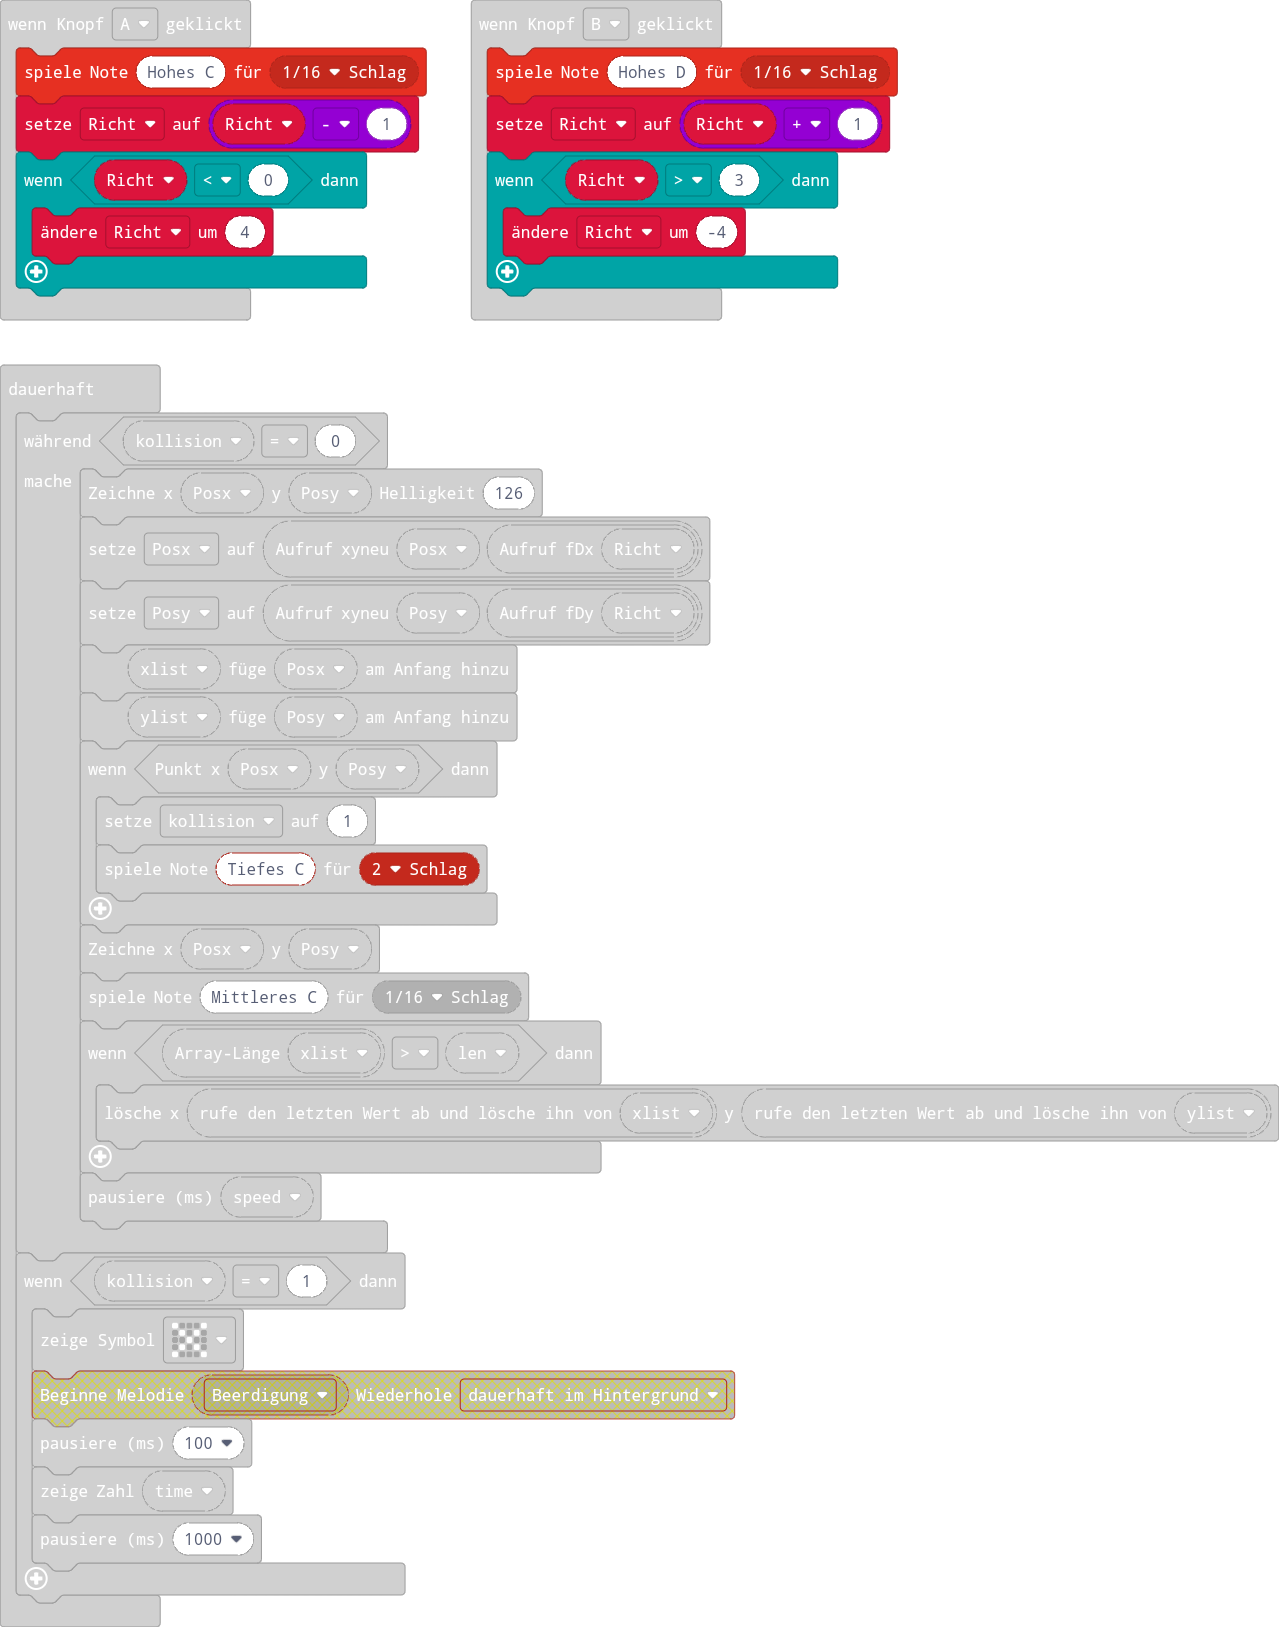
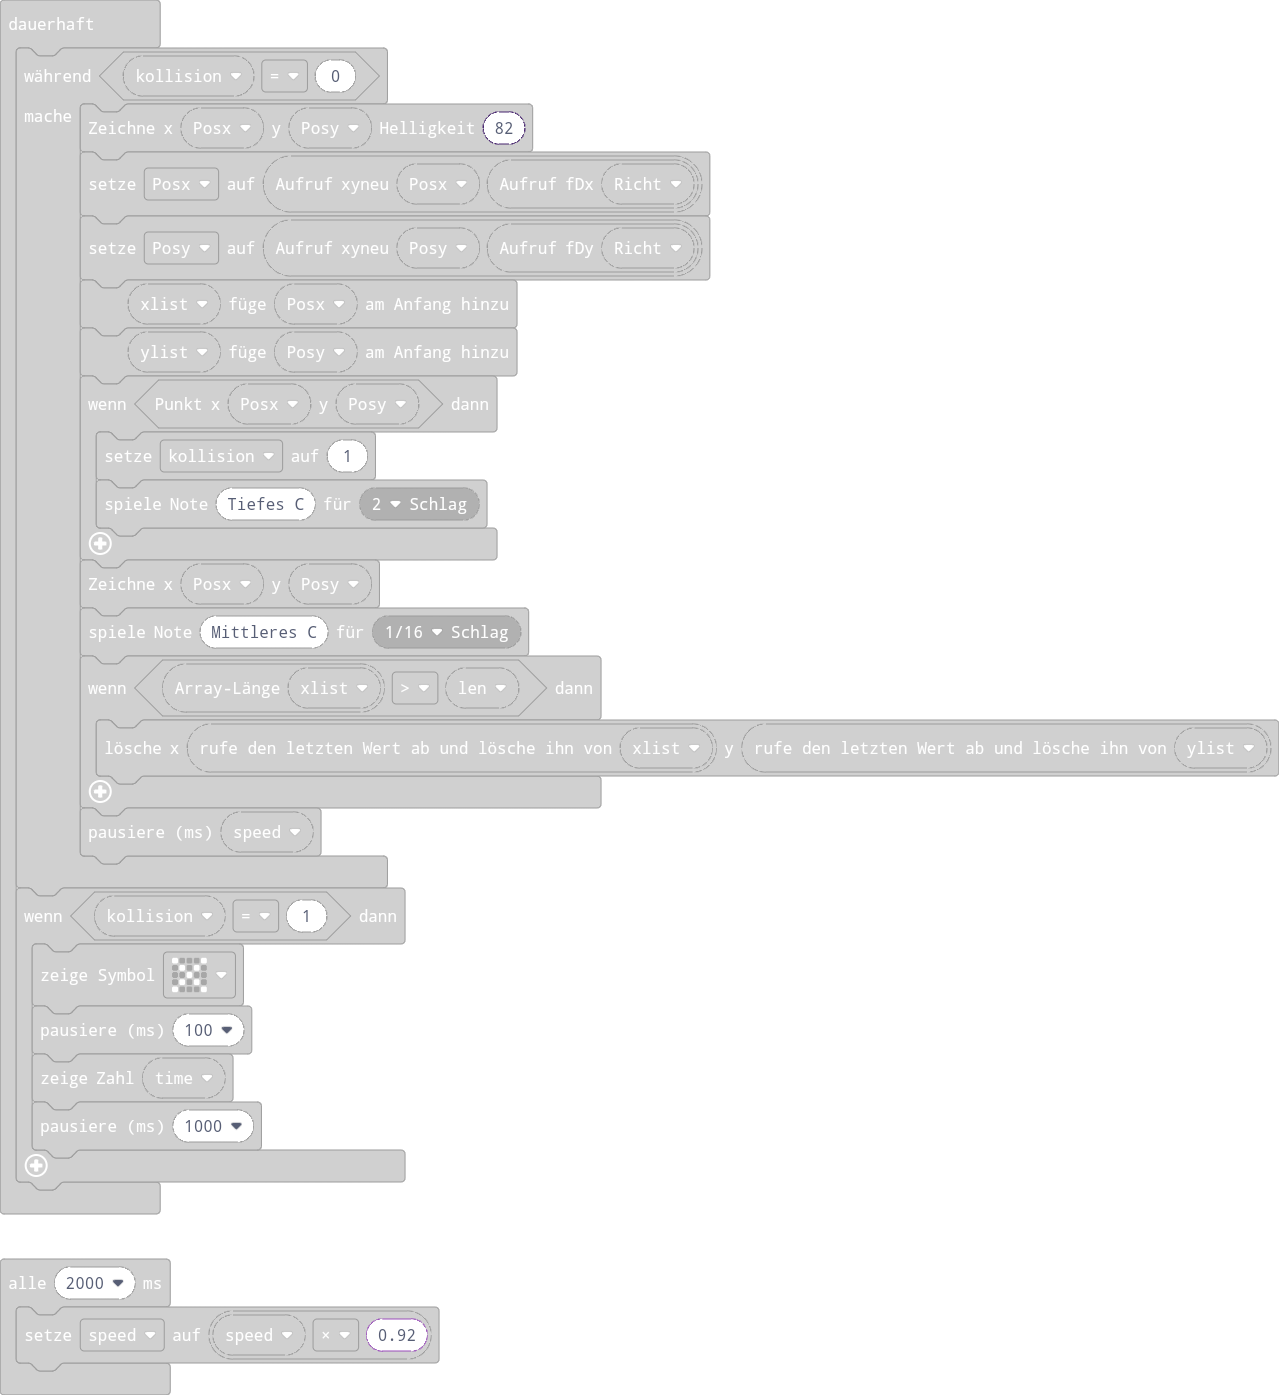
Aktualisiere main.blocks, main.ts

diff --git a/main.ts b/main.ts
@@ -74,11 +74,11 @@ loops.everyInterval(2000, function () {
     }
 })
 loops.everyInterval(2000, function () {
-    speed = speed * 0.95
+    speed = speed * 0.92
 })
 basic.forever(function () {
     while (kollision == 0) {
-        led.plotBrightness(Posx, Posy, 126)
+        led.plotBrightness(Posx, Posy, 82)
         Posx = xyneu(Posx, fDx(Richt))
         Posy = xyneu(Posy, fDy(Richt))
         xlist.unshift(Posx)
